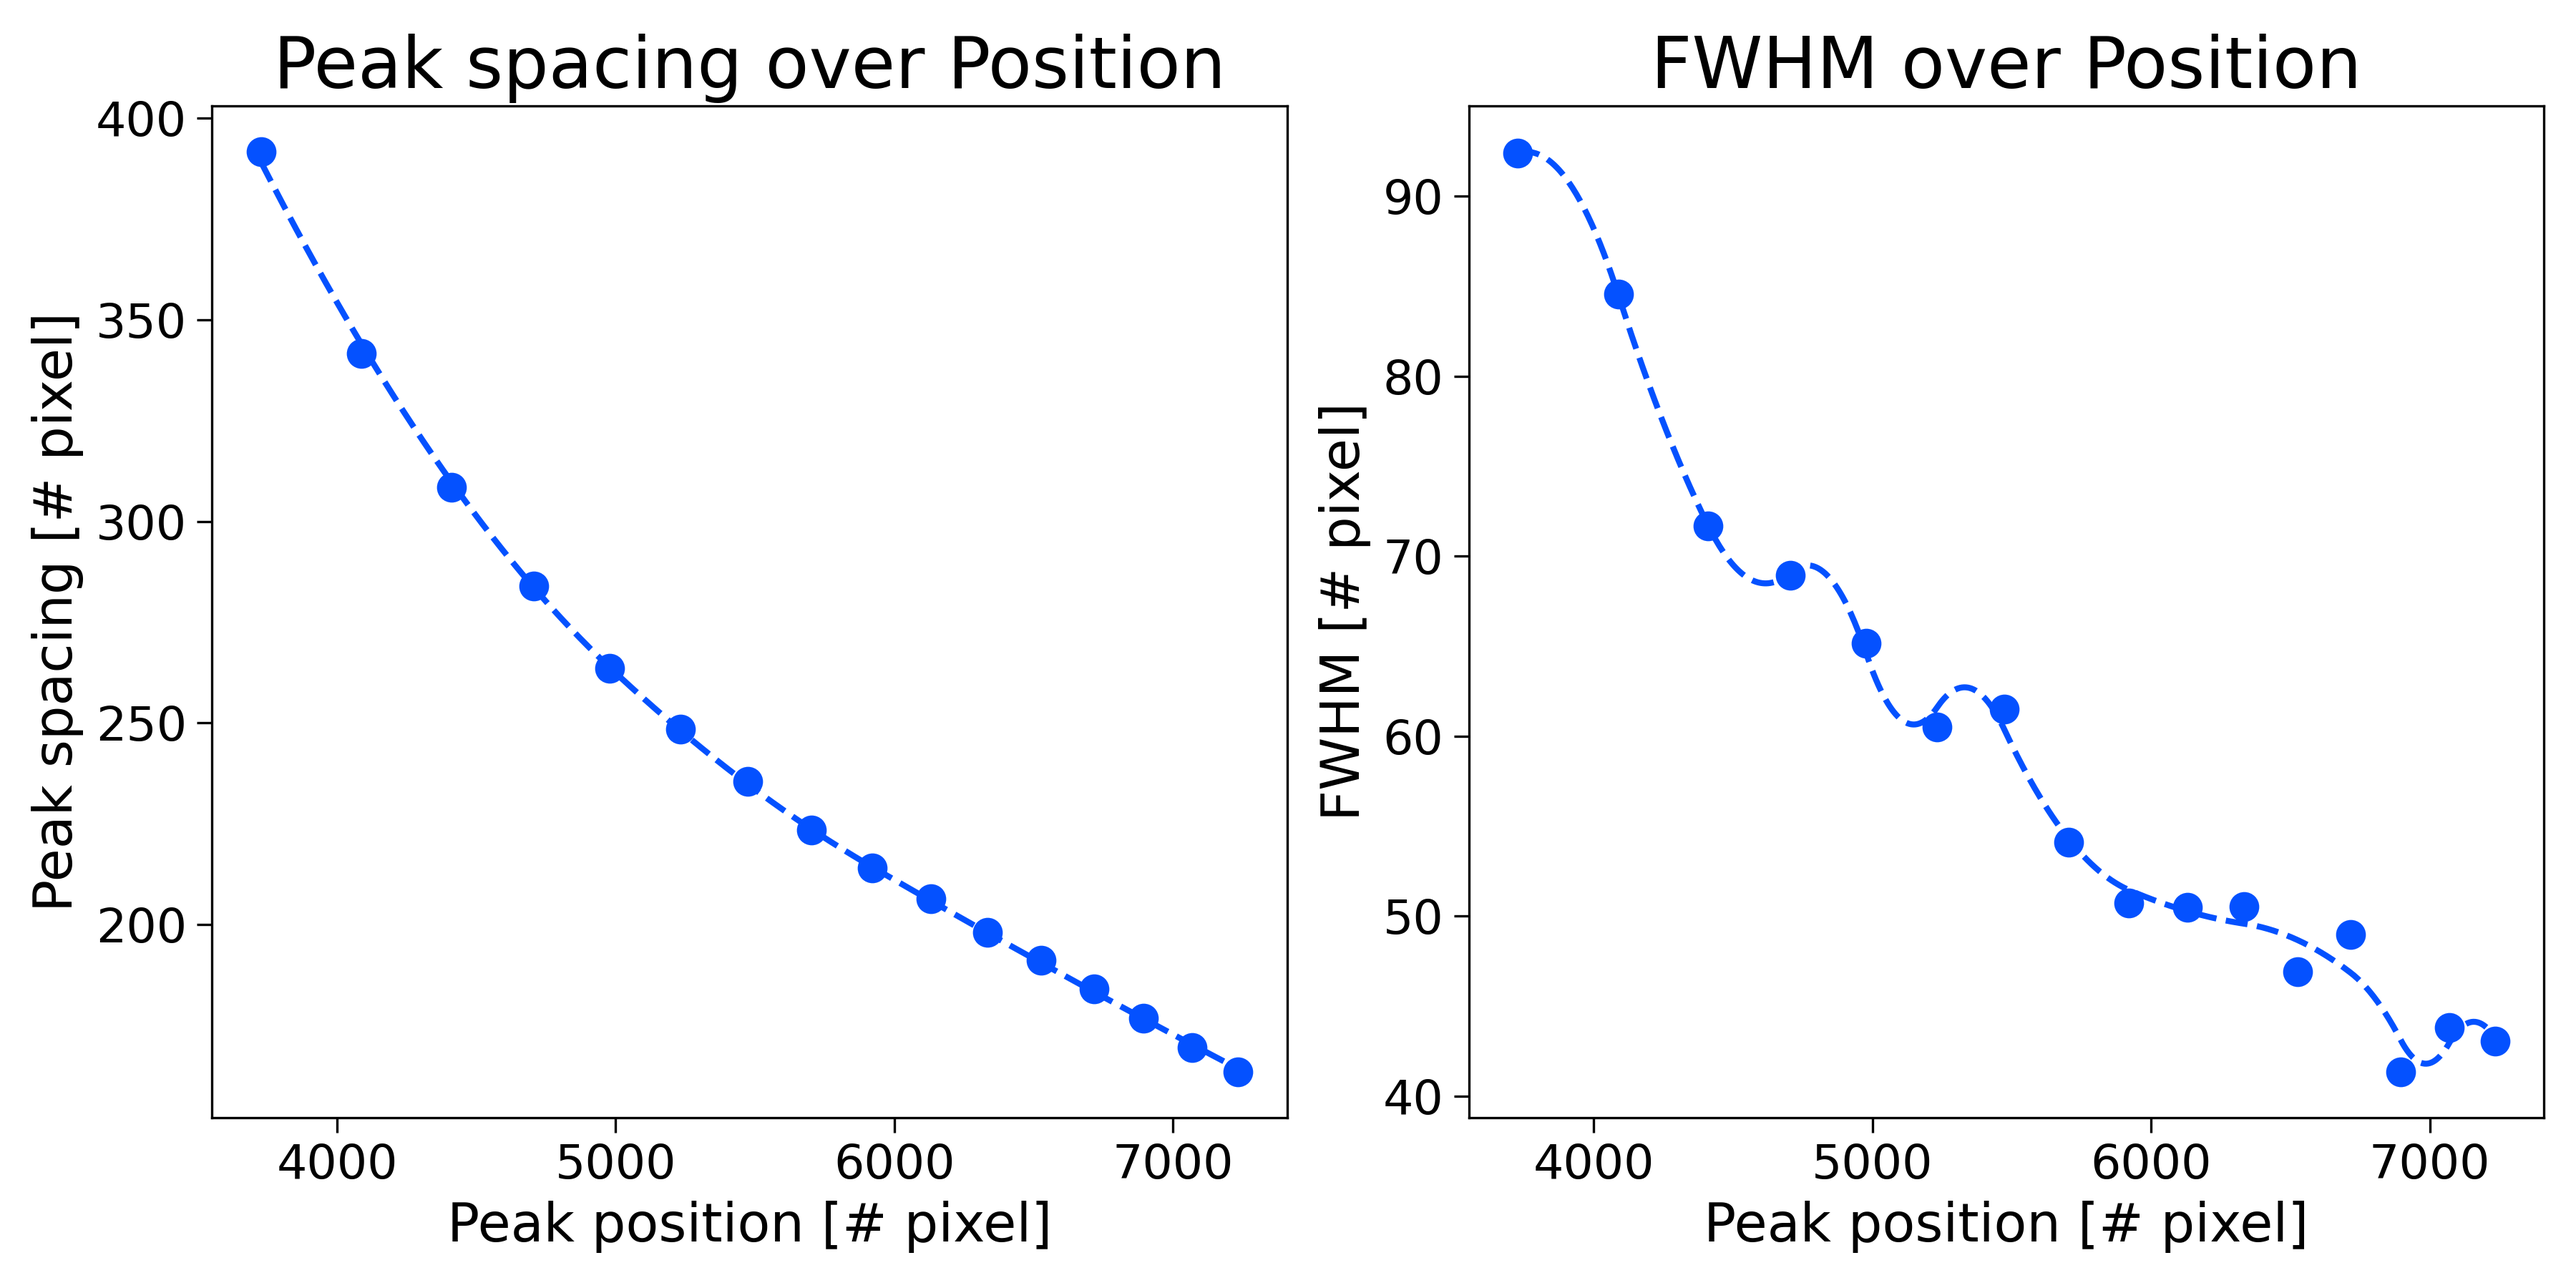
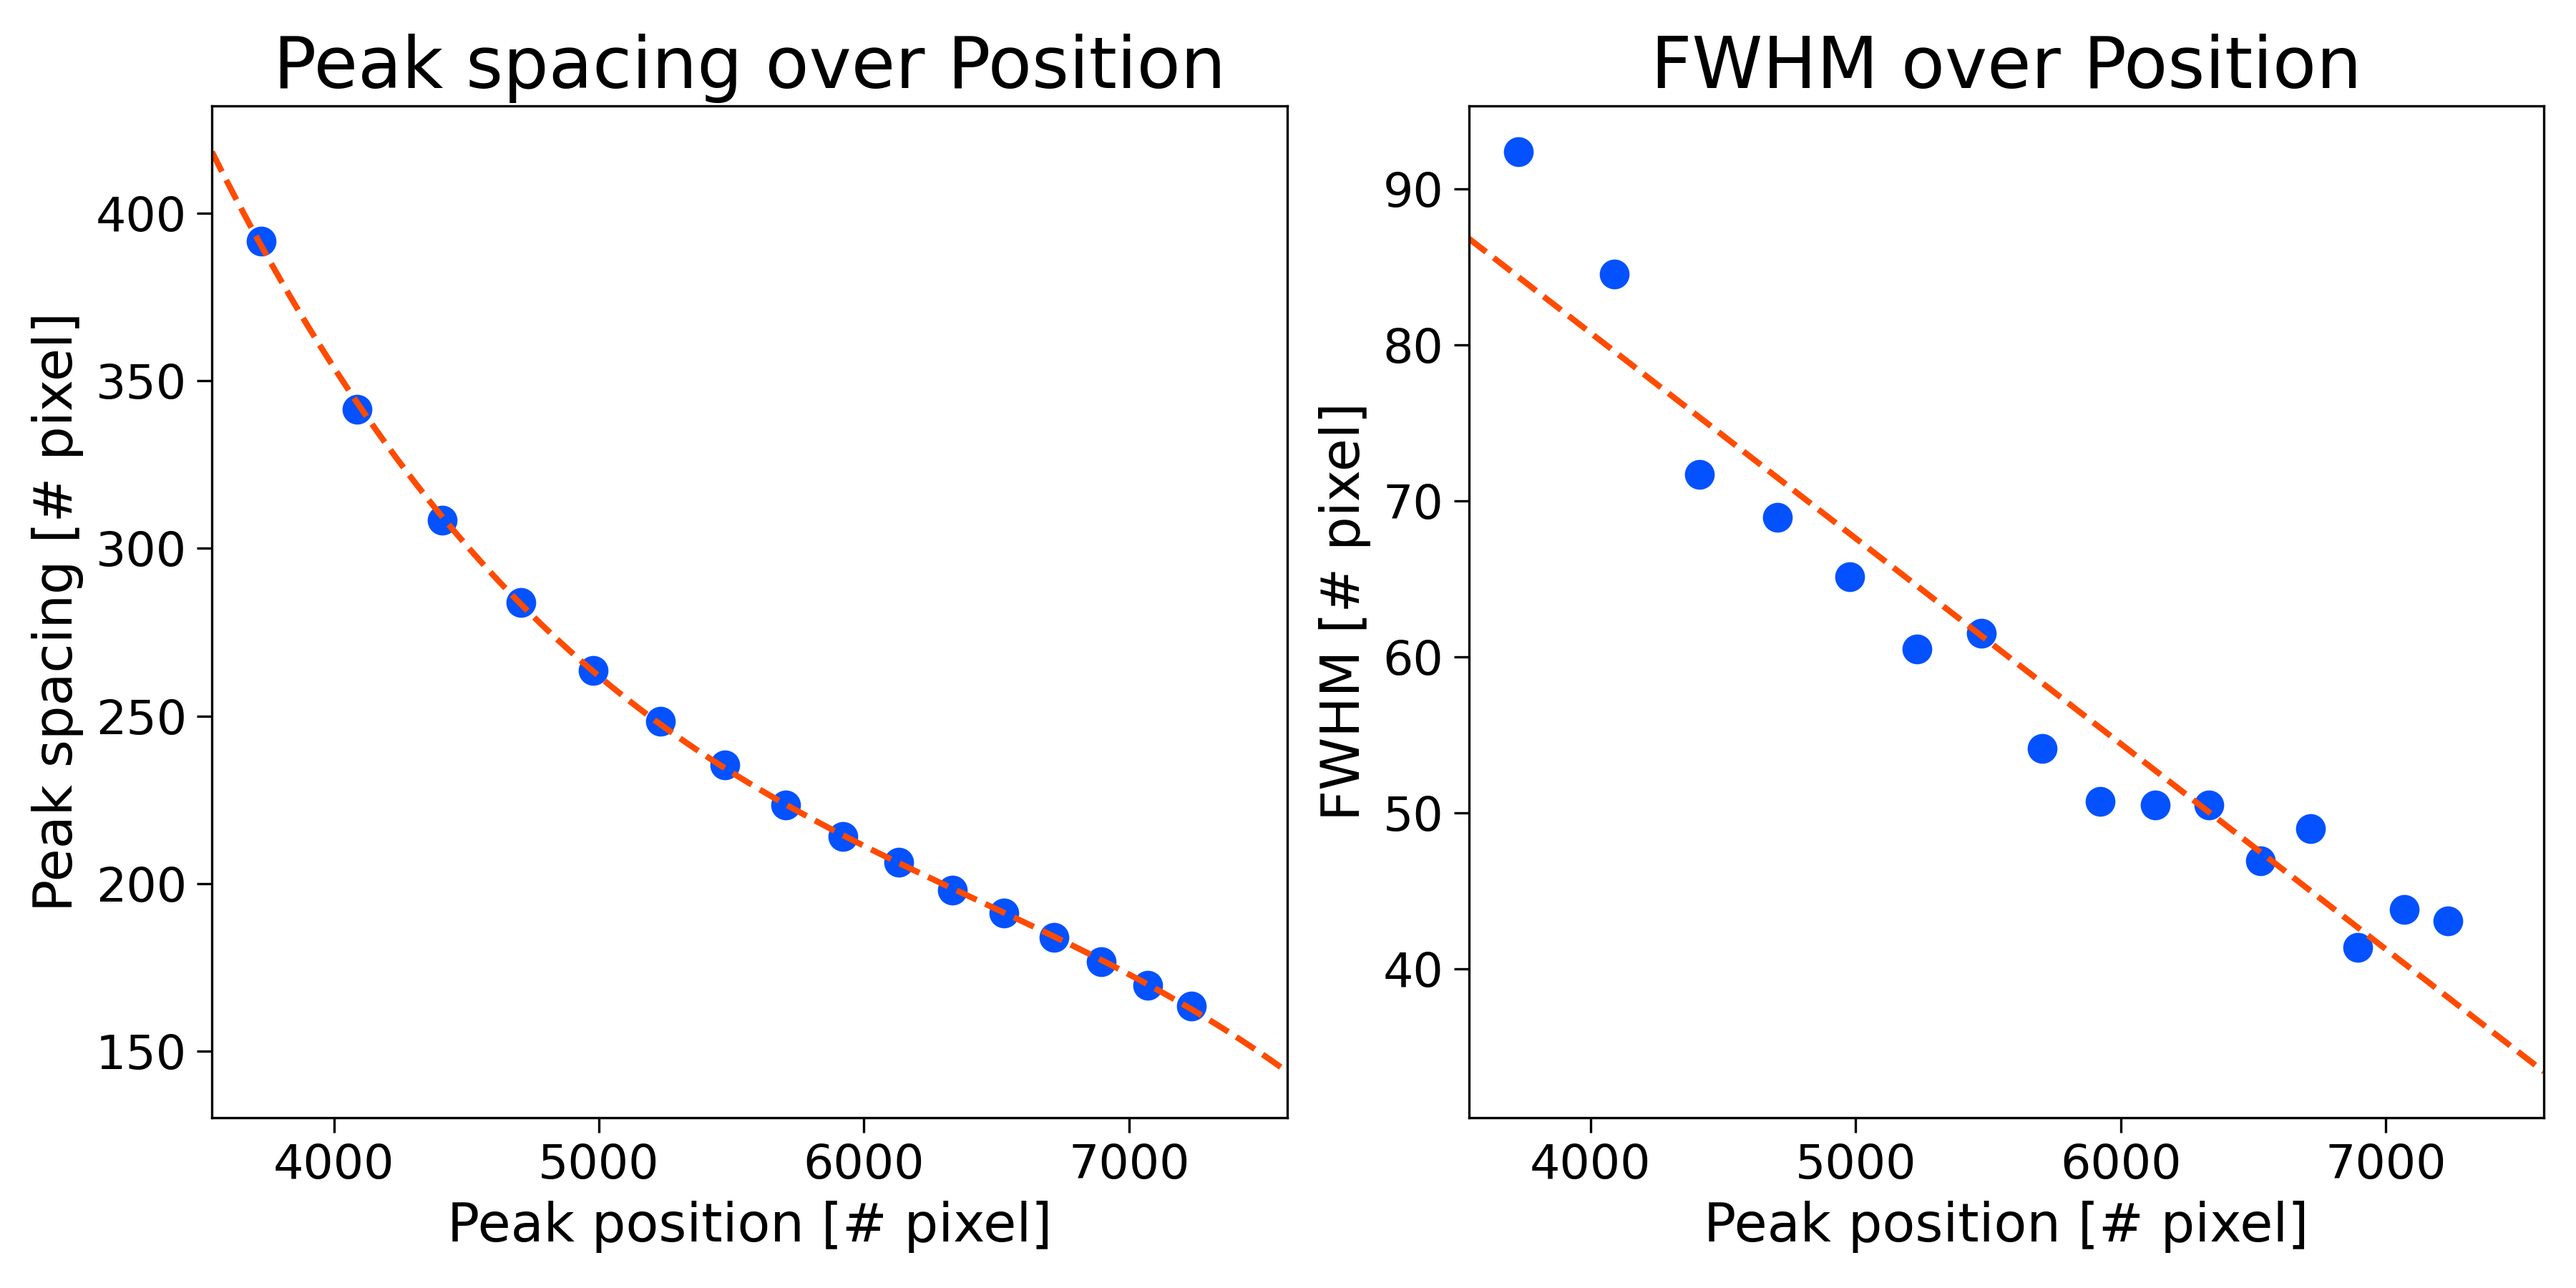
Updated plots, again

diff --git a/EFFETTO ZEEMAN/Code/resPower.py b/EFFETTO ZEEMAN/Code/resPower.py
@@ -244,9 +244,25 @@ def computeRMS(R, avgR):
     return RMSE
 
 
+def lin(x, a, b):
+    return a*x + b
+
+def parab(x, a, b, c):
+    return a*x**2 + b*x + c
+
+def cub(x, a, b, c, d):
+    return a*x**3 + b*x**2 + c*x + d
+
 
 # ABERRATION ANALYSIS 
 def spacingTrend(peakPositions, peakSpacing, peakFWHM):
+
+
+    XMIN = peakPositions[0] * ( 1 - 5 / 100)
+    XMAX = peakPositions[-1] * ( 1 + 5 / 100)
+
+    par1, _ = curve_fit(cub, peakPositions, peakSpacing)
+    par2, _ = curve_fit(lin, peakPositions, peakFWHM)
 
     # create figure
     fig = plt.figure(figsize=(12,6))
@@ -256,14 +272,14 @@ def spacingTrend(peakPositions, peakSpacing, peakFWHM):
     ax2 = fig.add_subplot(1, 2, 2)
 
     spline1 = UnivariateSpline(peakPositions, peakSpacing, k = 2)
-    spline2 = UnivariateSpline(peakPositions, peakFWHM, k = 2)
-    xs = np.linspace(peakPositions[0], peakPositions[-1], 500)
+    spline2 = UnivariateSpline(peakPositions, peakFWHM, s = 1e-8)
+    xs = np.linspace(XMIN, XMAX, 1000)
 
     # show plots
     ax1.plot(peakPositions, peakSpacing, marker = '.', markersize = 18, linewidth = 0, color = '#0451FF')
-    ax1.plot(xs, spline1(xs), marker = '.', markersize = 0, linewidth = 2, linestyle = 'dashed', color = '#0451FF')
+    ax1.plot(xs, cub(xs, *par1), marker = '.', markersize = 0, linewidth = 2, linestyle = 'dashed', color = '#FF4B00')
     ax2.plot(peakPositions, peakFWHM, marker = '.', markersize = 18, linewidth = 0, color = '#0451FF')
-    ax2.plot(xs, spline2(xs), marker = '.', markersize = 0, linewidth = 2, linestyle = 'dashed', color = '#0451FF')
+    ax2.plot(xs, lin(xs, *par2), marker = '.', markersize = 0, linewidth = 2, linestyle = 'dashed', color = '#FF4B00')
 
     # titles
     ax1.set_title('Peak spacing over Position', fontsize = 24)
@@ -277,6 +293,9 @@ def spacingTrend(peakPositions, peakSpacing, peakFWHM):
 
     ax1.tick_params(axis = 'both', which = 'major', labelsize = 16, direction = 'out', length = 5)
     ax2.tick_params(axis = 'both', which = 'major', labelsize = 16, direction = 'out', length = 5)
+
+    ax1.set_xlim(XMIN, XMAX)
+    ax2.set_xlim(XMIN, XMAX)
 
     fig.tight_layout()
     fig.savefig('../Plots/Boff_spacing_trend.png', dpi = 300, facecolor = 'white')
@@ -371,7 +390,7 @@ def main(fname):
     print('\n')
 
     fig.tight_layout()
-    fig.savefig('../Plots/Boff_Y_proj.png', dpi = 300, facecolor = 'white')
+    # fig.savefig('../Plots/Boff_Y_proj.png', dpi = 300, facecolor = 'white')
     plt.show()
 
     return
